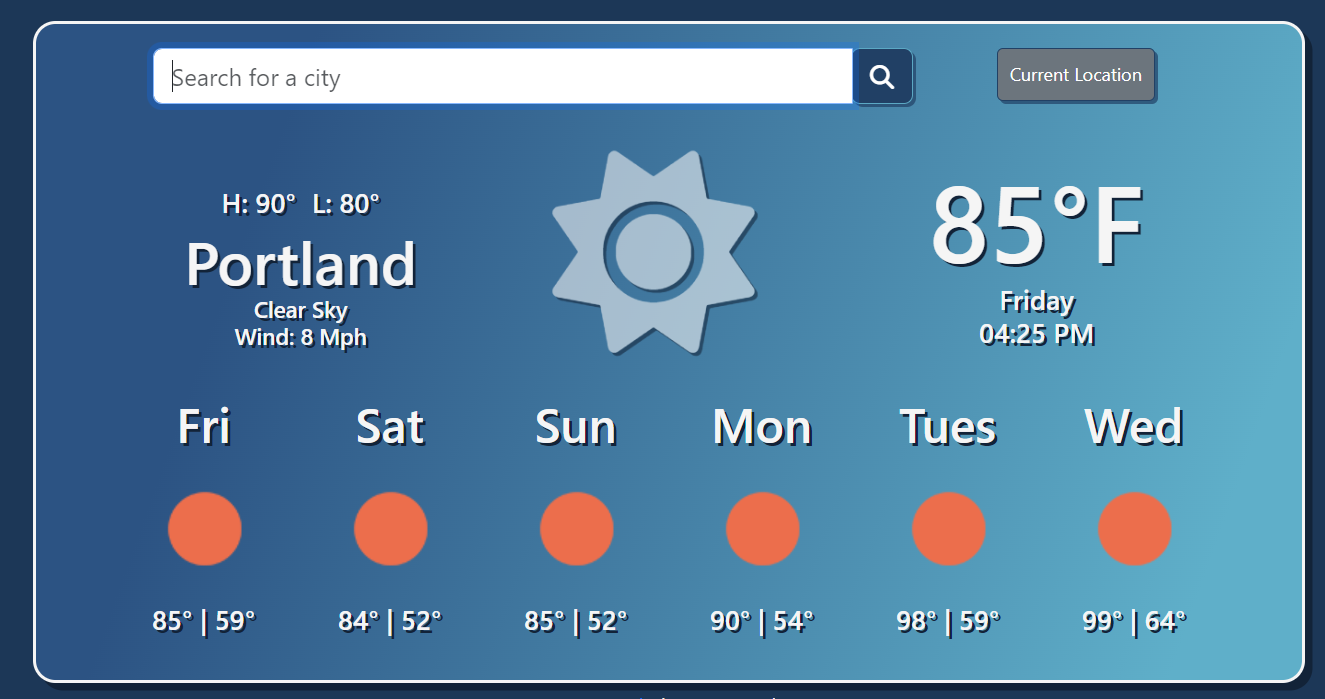
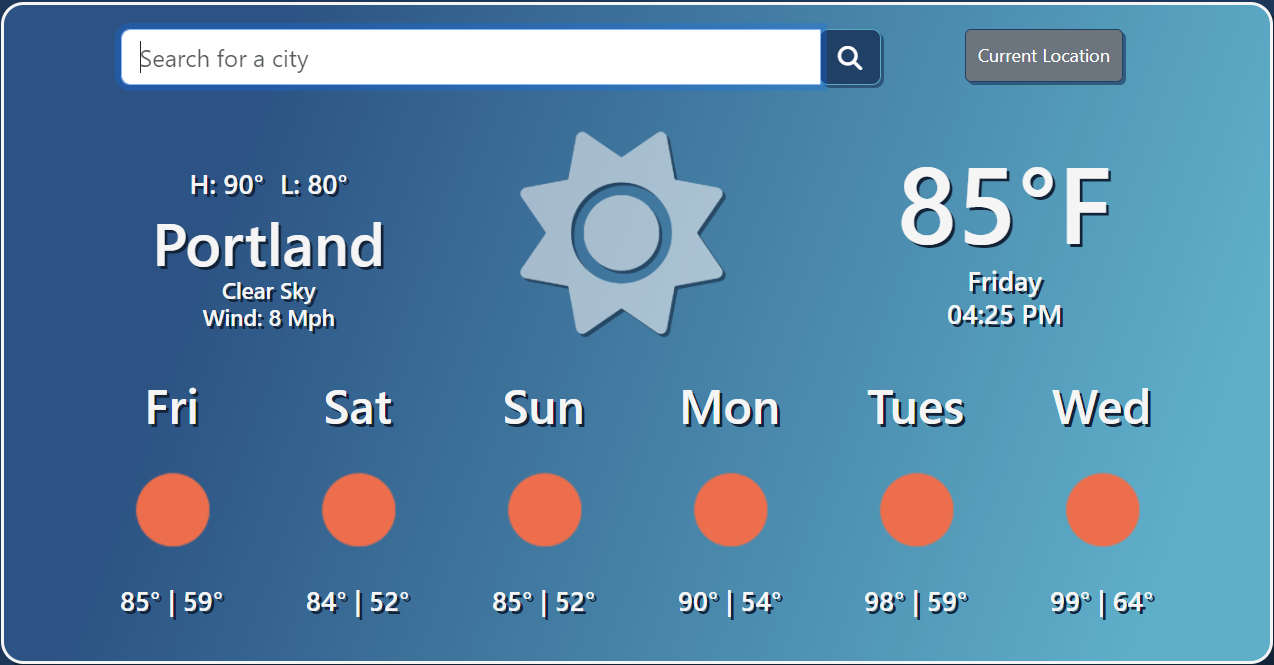
Updated images, and about page

diff --git a/index.html b/index.html
@@ -124,16 +124,16 @@
             class="col-fluid-6 col-md-6 image-container rounded-3 d-none d-md-block"
           >
             <img
-              src="/images/archery.png"
-              alt="Screenshot of Archery webpage"
-              title="Screenshot of Archery webpage"
-              class="home-image img-fluid"
+              src="/images/croissant.png"
+              alt="Screenshot of Croissant webpage"
+              title="Screenshot of Croissant webpage"
+              class="home-images ratio-4x3 img-fluid rounded-3"
             />
           </div>
           <div
             class="col-fluid-6 col-md-6 mx-auto my-auto text-center text-md-start g-5"
           >
-            <h3 class="mb-3">Archery Page</h3>
+            <h3 class="mb-3">Croissant Page</h3>
             <p class="project-description">
               Lorem ipsum dolor sit amet consectetur adipisicing elit.
               Perferendis quia, dignissimos nam ratione veniam quibusdam porro
@@ -142,9 +142,9 @@
             </p>
             <div class="mt-5">
               <a
-                href="/links/archery.html"
+                href="https://croissant-101.netlify.app/"
                 class="btn btn-success button-link shadow"
-                title="Learn more about the History of Archery"
+                title="Learn more about the History of the Croissant"
                 target="_blank"
                 >Launch Page</a
               >
@@ -179,7 +179,7 @@
               src="/images/weather.png"
               alt="Screenshot of Weather App"
               title="Screenshot of Weather App"
-              class="home-image img-fluid"
+              class="home-images img-fluid rounded-3"
             />
           </div>
         </div>
@@ -191,7 +191,7 @@
               src="/images/worldclock.png"
               alt="Screenshot of World Clock App"
               title="Screenshot of World Clock App"
-              class="home-image img-fluid"
+              class="home-images img-fluid rounded-3"
             />
           </div>
           <div
@@ -218,6 +218,7 @@
       </div>
       <div
         class="container-fluid d-block d-lg-flex justify-content-evenly align-items-center text-center text-lg-start rounded content-container"
+        id="contact-content"
       >
         <h2 id="contact">Start a Project</h2>
         <p class="mx-auto my-auto contact-blurb">

diff --git a/styles/style.css b/styles/style.css
@@ -46,8 +46,7 @@ h2 {
   line-height: 1.5;
   color: var(--primary-color);
 }
-  border-image-slice: 1;
-}
+
 h3 {
   font-size: 32px;
   font-weight: normal;
@@ -58,6 +57,11 @@ p {
   font-weight: 300;
   line-height: 1.5;
   color: var(--primary-color);
+}
+small.code-icon {
+  color: var(--primary-color);
+  border: var(--image-border);
+  padding: 5px 7px;
 }
 .page-headings {
   border-bottom: 2px solid;
@@ -70,7 +74,7 @@ p {
 }
 
 .active {
-  color: var(--secondary-color) !important;
+  color: var(--secondary-color);
 }
 .hero-container {
   background-color: var(--hero-bg-color);
@@ -82,19 +86,15 @@ p {
 .page-container {
   padding: 60px;
 }
-.image-container {
+
+.home-images {
+  width: 550px;
+  height: 350px;
+  object-fit: scale-down;
   background-color: var(--content-box-color);
-  aspect-ratio: 1/1;
-  position: relative;
-}
-.home-image {
-  position: absolute;
-  right: 0;
-  top: 50%;
-  transform: translateY(-50%);
   filter: grayscale(1);
 }
-.home-image:hover {
+.home-images:hover {
   filter: grayscale(0);
   transition: all 300ms ease-in-out;
 }
@@ -109,9 +109,45 @@ p {
 }
 .content-container {
   background-color: var(--content-box-color);
-  padding: 30px;
-  width: 50%;
 }
+.content-container#contact-content {
+  padding: 30px;
+  width: 53%;
+}
+.content-container#project-content {
+  padding: 20px 20px;
+}
+.project-image-wrap {
+  position: relative;
+  width: 500;
+  height: 250;
+}
+.image-link {
+  position: absolute;
+  top: 0;
+  bottom: 0;
+  left: 0;
+  right: 0;
+  background: var(--primary-bg-color);
+  color: var(--primary-color);
+  font-size: 46px;
+  visibility: hidden;
+  padding-top: 20%;
+  opacity: 0;
+}
+.project-image-wrap:hover .image-link {
+  transition: all 300ms ease-in-out;
+  visibility: visible;
+  opacity: 0.5;
+}
+.project-images {
+  width: 500px;
+  height: 250px;
+  object-fit: scale-down;
+  background-color: var(--primary-bg-color);
+  margin: 0 auto;
+}
+
 #contact-link {
   background-color: var(--primary-bg-color);
   border-color: var(--primary-color);
@@ -167,5 +203,9 @@ p {
 @media (max-width: 992px) {
   .contact-blurb {
     padding-bottom: 20px;
+  }
+  .home-image {
+    width: 400px;
+    height: 300px;
   }
 }

diff --git a/about.html b/about.html
@@ -88,7 +88,7 @@
         <img
           src="images/casey.jpg"
           alt="Photo of Casey Baker"
-          class="image-fluid mx-auto my-auto d-block d-lg-flex"
+          class="img-fluid mx-auto my-auto d-block d-lg-flex"
           id="about-image"
         />
 
